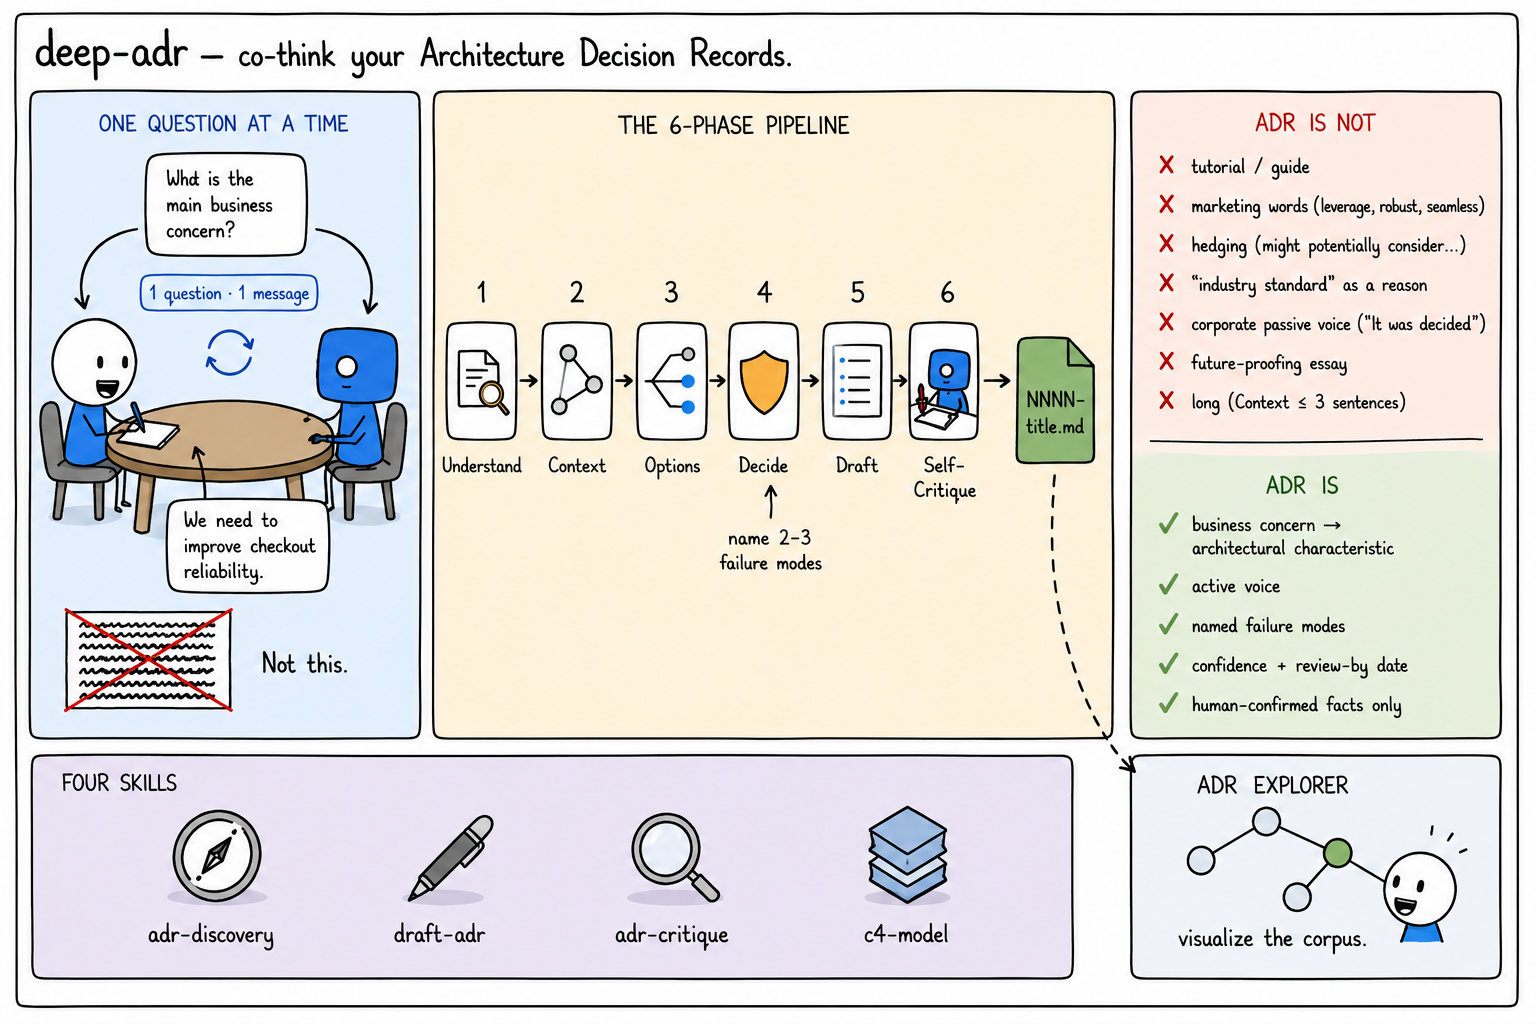
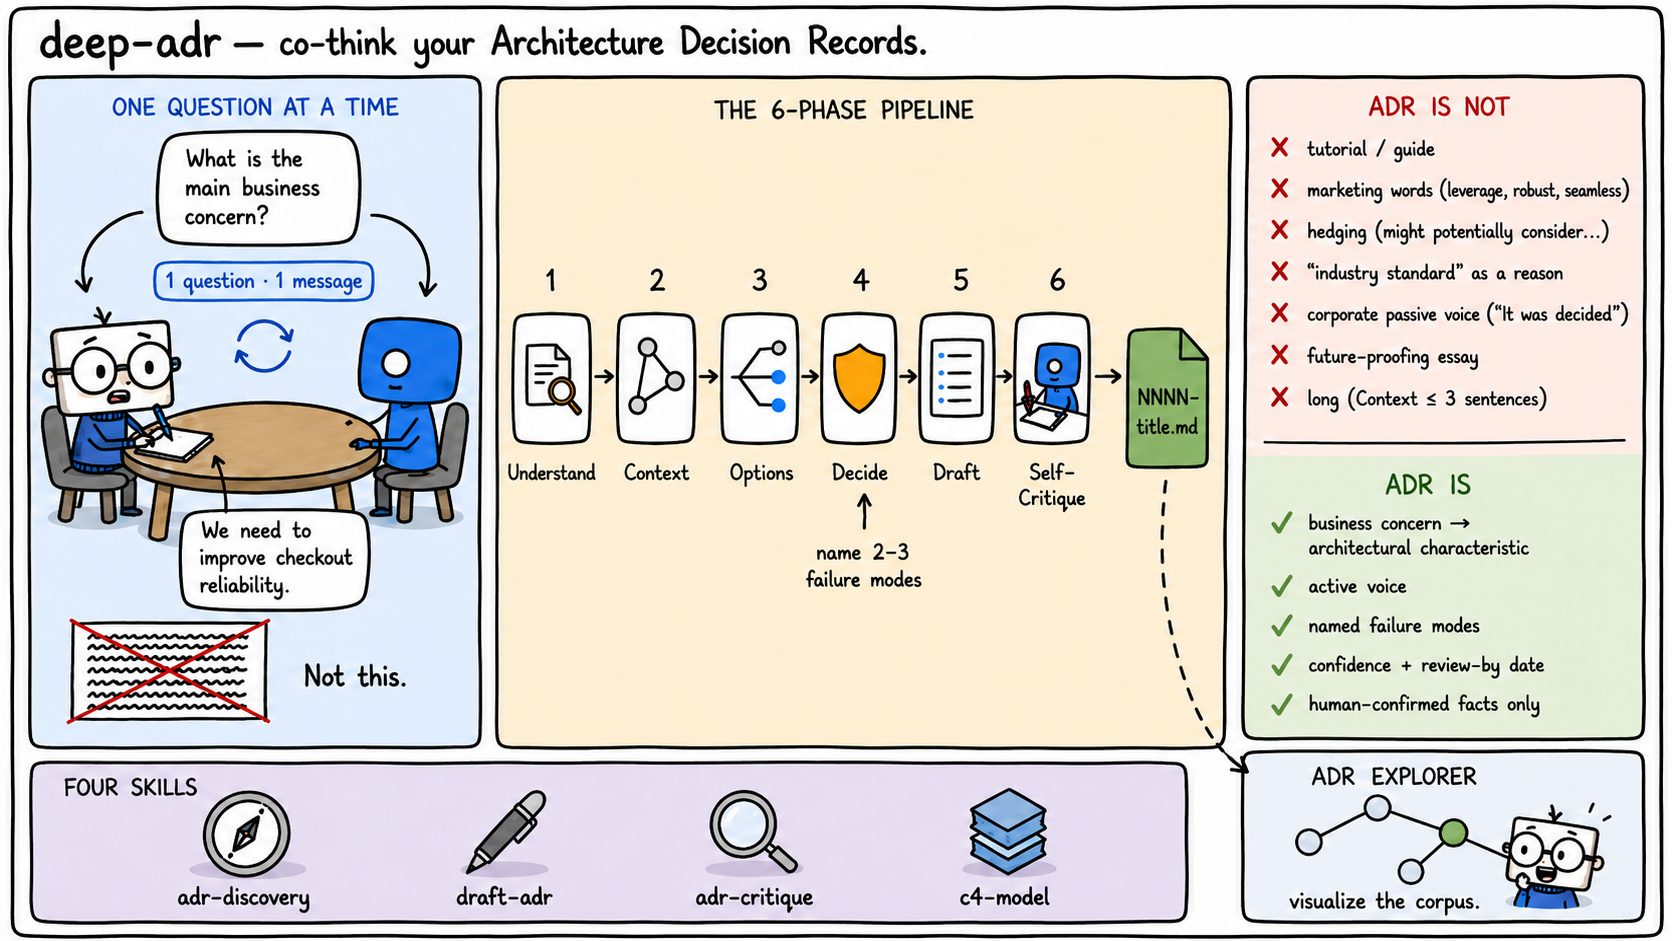
docs: replace Mermaid workflow with flow-chart image
Swap the inline Mermaid flowchart for media/images/flow-chart.png so the
typical workflow renders consistently across GitHub, npm, and other
README viewers. Also refresh the deep-adr infographic.

diff --git a/README.md b/README.md
@@ -23,32 +23,7 @@ These are **not** template fillers. They behave like a senior architect in a rev
 
 ## Typical workflow
 
-```mermaid
-flowchart TD
-    Start([New system or thin context?]) -->|yes| Discovery
-    Start -->|no| C4
-
-    Discovery["/adr-discovery<br/><i>Q&A, zero hallucination</i>"]
-    Discovery --> OQ[(docs/architecture/<br/>open-questions.md)]
-    Discovery --> C4
-
-    C4["/c4-model<br/><i>canonical LikeC4</i>"]
-    C4 --> Diagrams[(likec4/*.c4)]
-    C4 --> Draft
-
-    Draft["/draft-adr<br/><i>6-phase, self-critiques before save</i>"]
-    Draft --> ADR[(docs/adr/NNNN-*.md)]
-
-    ADR -.->|auditing legacy ADR later| Critique["/adr-critique<br/><i>line-level flags</i>"]
-
-    classDef skill fill:#1f6feb,stroke:#0d419d,color:#fff,stroke-width:2px;
-    classDef artifact fill:#f6f8fa,stroke:#57606a,color:#24292f;
-    classDef start fill:#2da44e,stroke:#1a7f37,color:#fff;
-
-    class Discovery,C4,Draft,Critique skill;
-    class OQ,Diagrams,ADR artifact;
-    class Start start;
-```
+![deep-adr typical workflow](media/images/flow-chart.png)
 
 ## What makes these different
 